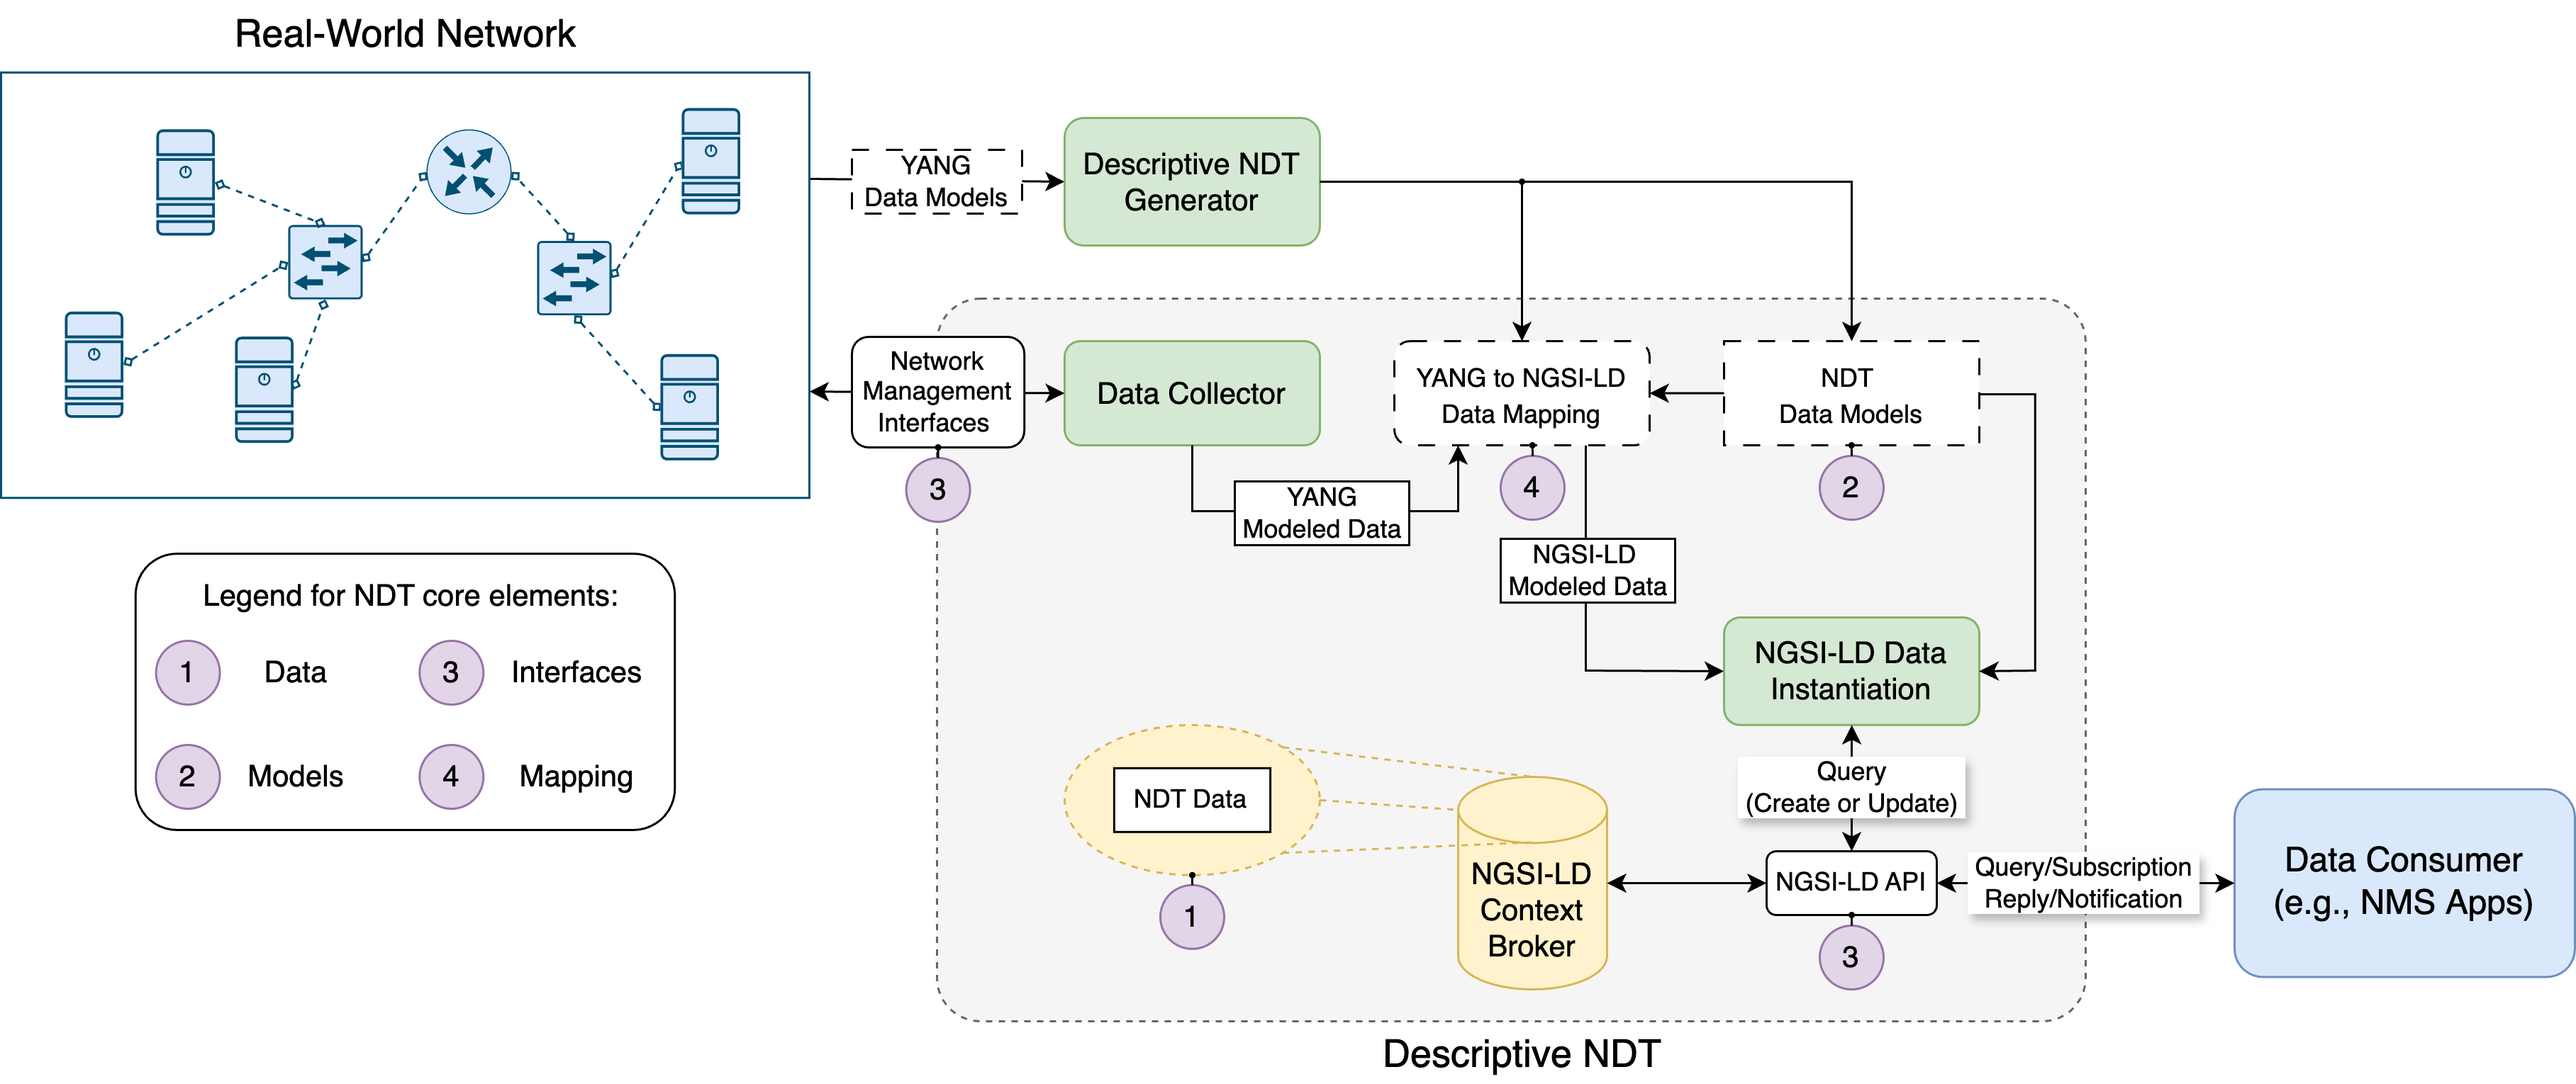
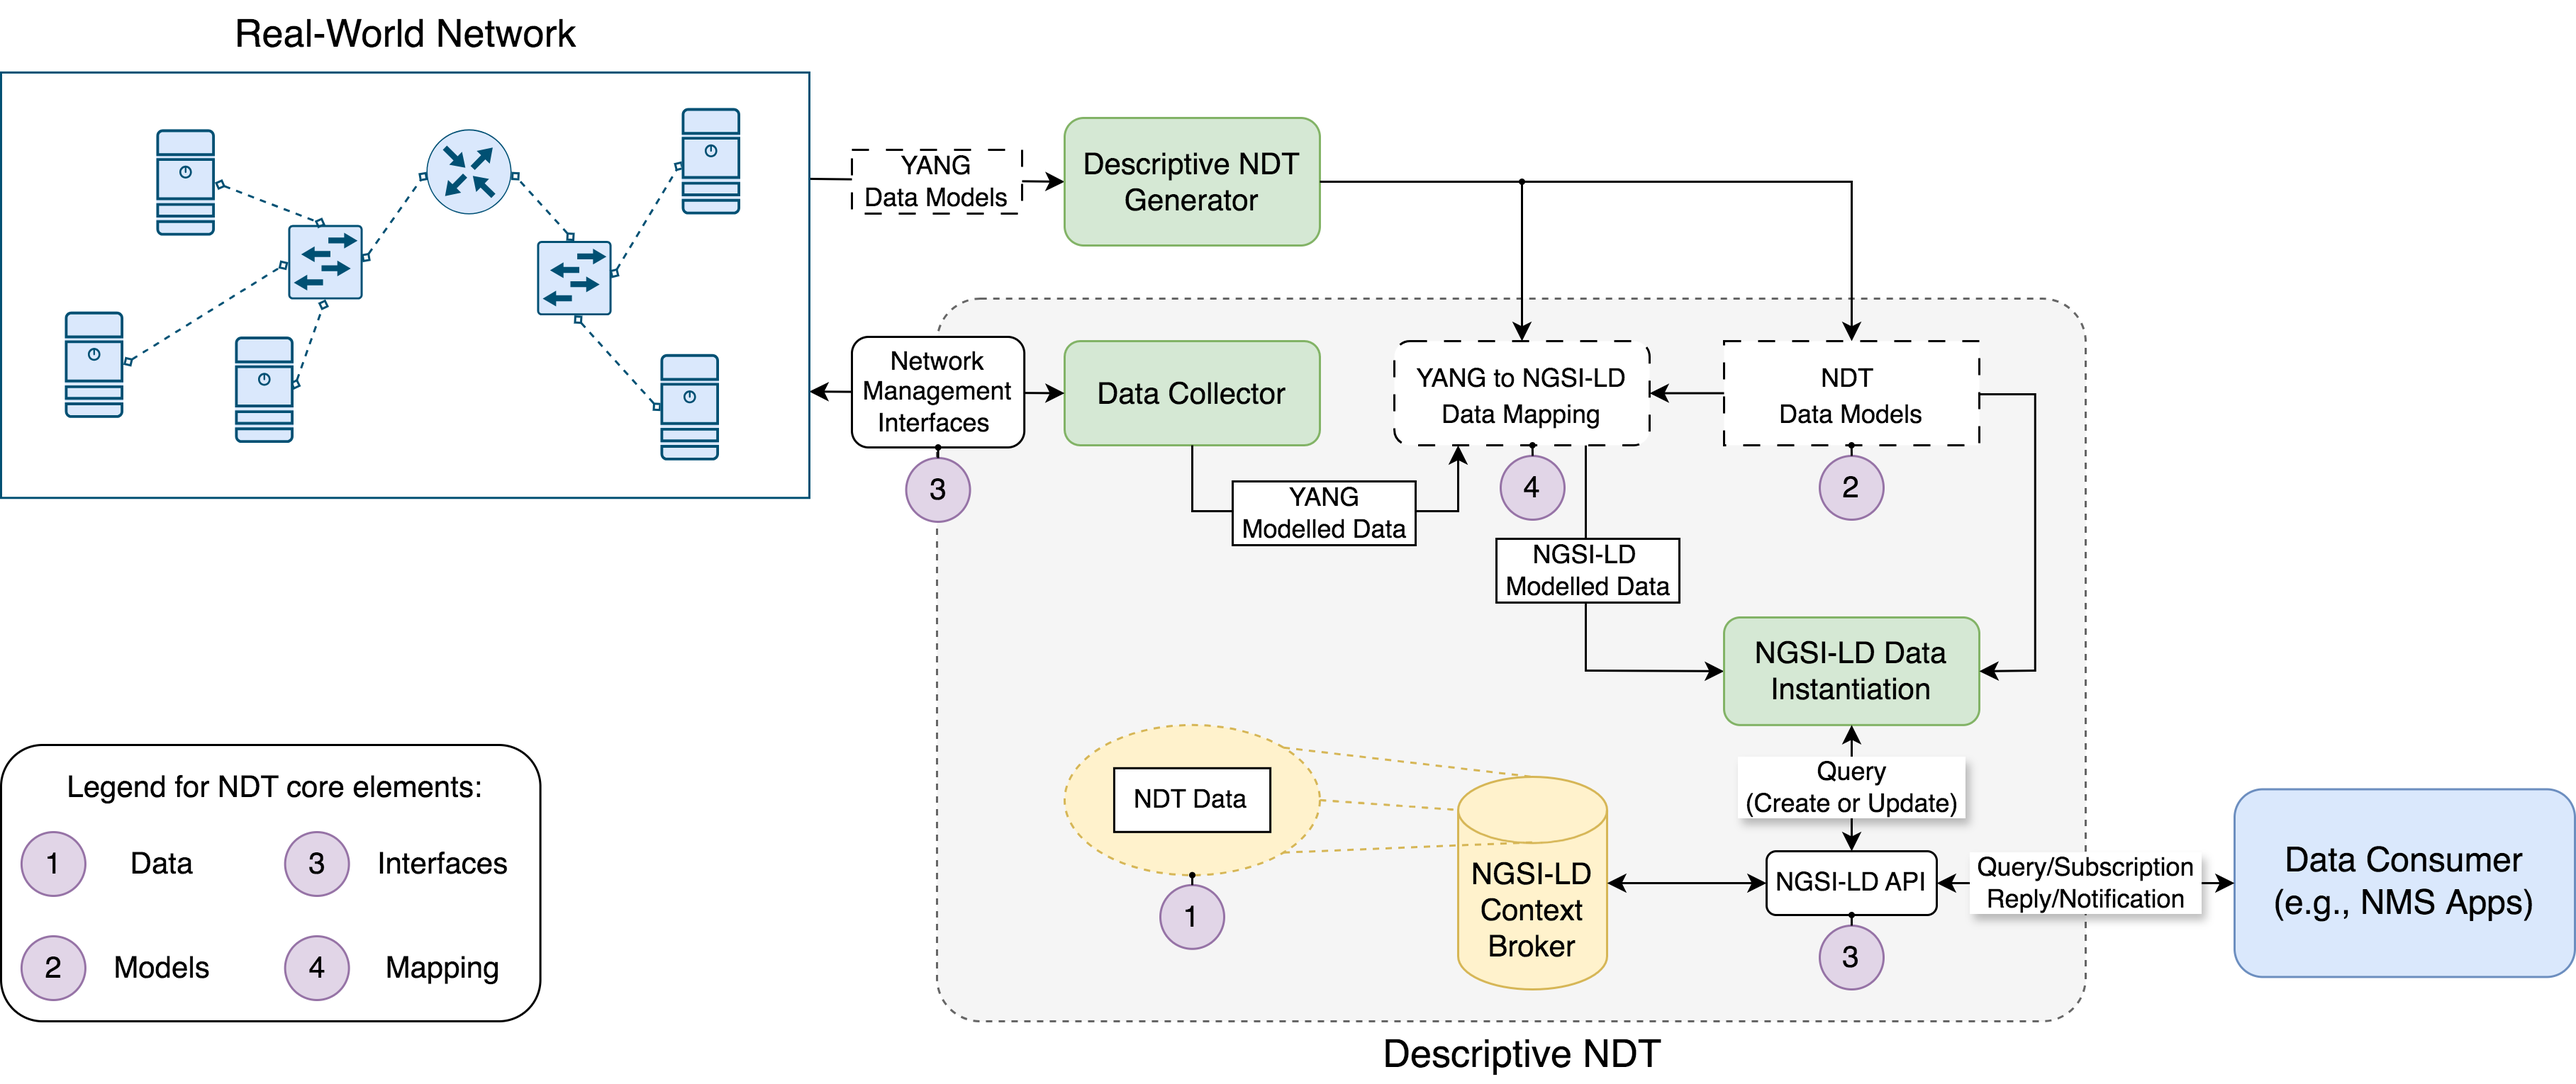
Updating README, images resources folder, and NGSI-LD Information Models draw.io diagrams.

diff --git a/README.md b/README.md
@@ -2,12 +2,12 @@
 Repository with source code, artifacts and documentation about YANG [[1](https://datatracker.ietf.org/doc/html/rfc7950)] to NGSI-LD translation. This translation process is the baseline for modeling a *Descriptive Network Digital Twin (NDT)* solution by means of the NGSI-LD standard specified by ETSI ISG CIM [[2](https://www.etsi.org/deliver/etsi_gs/CIM/001_099/009/01.08.01_60/gs_CIM009v010801p.pdf)].
 
 ## Descriptive NDT architecture
-The proposed *Descriptive NDT* architecture covers the core elements of NDT described by the IETF [[3](https://datatracker.ietf.org/doc/html/draft-irtf-nmrg-network-digital-twin-arch-05)] and the *descriptive twin* vision provided by ETSI ISG CIM and its NGSI-LD standard specification [[4](https://www.etsi.org/deliver/etsi_gr/CIM/001_099/017/01.01.01_60/gr_CIM017v010101p.pdf)]. The architecture proposes an automated methodology for mapping data from network the management domain to a digitalized representation, following a data materialization approach supported by the NGSI-LD standard. The solution is targeted to real networks supporting Model-Driven Telemetry (MDT) and management mechanisms based on YANG data modeling language [5].
+The proposed *Descriptive NDT* architecture covers the core elements of NDT described by an IETF draft [[3](https://datatracker.ietf.org/doc/html/draft-irtf-nmrg-network-digital-twin-arch-05)] and the *descriptive twin* vision provided by ETSI ISG CIM and its NGSI-LD standard specification [[4](https://www.etsi.org/deliver/etsi_gr/CIM/001_099/017/01.01.01_60/gr_CIM017v010101p.pdf)]. The architecture proposes an automated methodology for mapping data from network management domain to an NDT representation, following a data materialization approach supported by the NGSI-LD standard. The solution is targeted to real networks supporting Model-Driven Telemetry (MDT) and management mechanisms based on YANG data modeling language [5].
 
 ![DescriptiveNDT-Arch-DataMaterialization](resources/images/DescriptiveNDT-Arch-DataMaterialization.png)
 
 ### Descriptive NDT prototype implementation:
-The implementation of this *Descriptive NDT* architecture is mainly based on the use of the OpenAPI Specification (OAS) compatible with the NGSI-LD API [6]. The OAS allows modeling the NDT data schemas (i.e., *NDT Data Models* in the Descriptive NDT architecture), as well as generate a client library with programmable code that makes use of the NGSI-LD API and the generated schemas for instantiating the resulting NDT data. The related programming code is implemented in Python, a language that also facilitates the main libraries (e.g., *pyang* [7] and *pydantic* [8]) for parsing the YANG modeled data and completing the mapping process to NGSI-LD modeled data, as well as for instantiating the NDT data. 
+The implementation of this *Descriptive NDT* architecture is mainly based on the use of the OpenAPI Specification (OAS) compatible with the NGSI-LD API [6]. The OAS allows modeling the NDT data schemas (i.e., *NDT Data Models* in the Descriptive NDT architecture), as well as generating a client library with programmable code that makes use of the NGSI-LD API and the generated schemas for instantiating the resulting NDT data. The client is implemented in Python, a programming language that also provides additional libraries (e.g., *pyang* [7] or *pydantic* [8]) for parsing the YANG modeled data and completing the mapping process to NGSI-LD modeled data, as well as for instantiating the NDT data. 
 
 ![YANG-to-NGSI-LD-translation](resources/images/YANG-to-NGSI-LD-translation.png)
 
